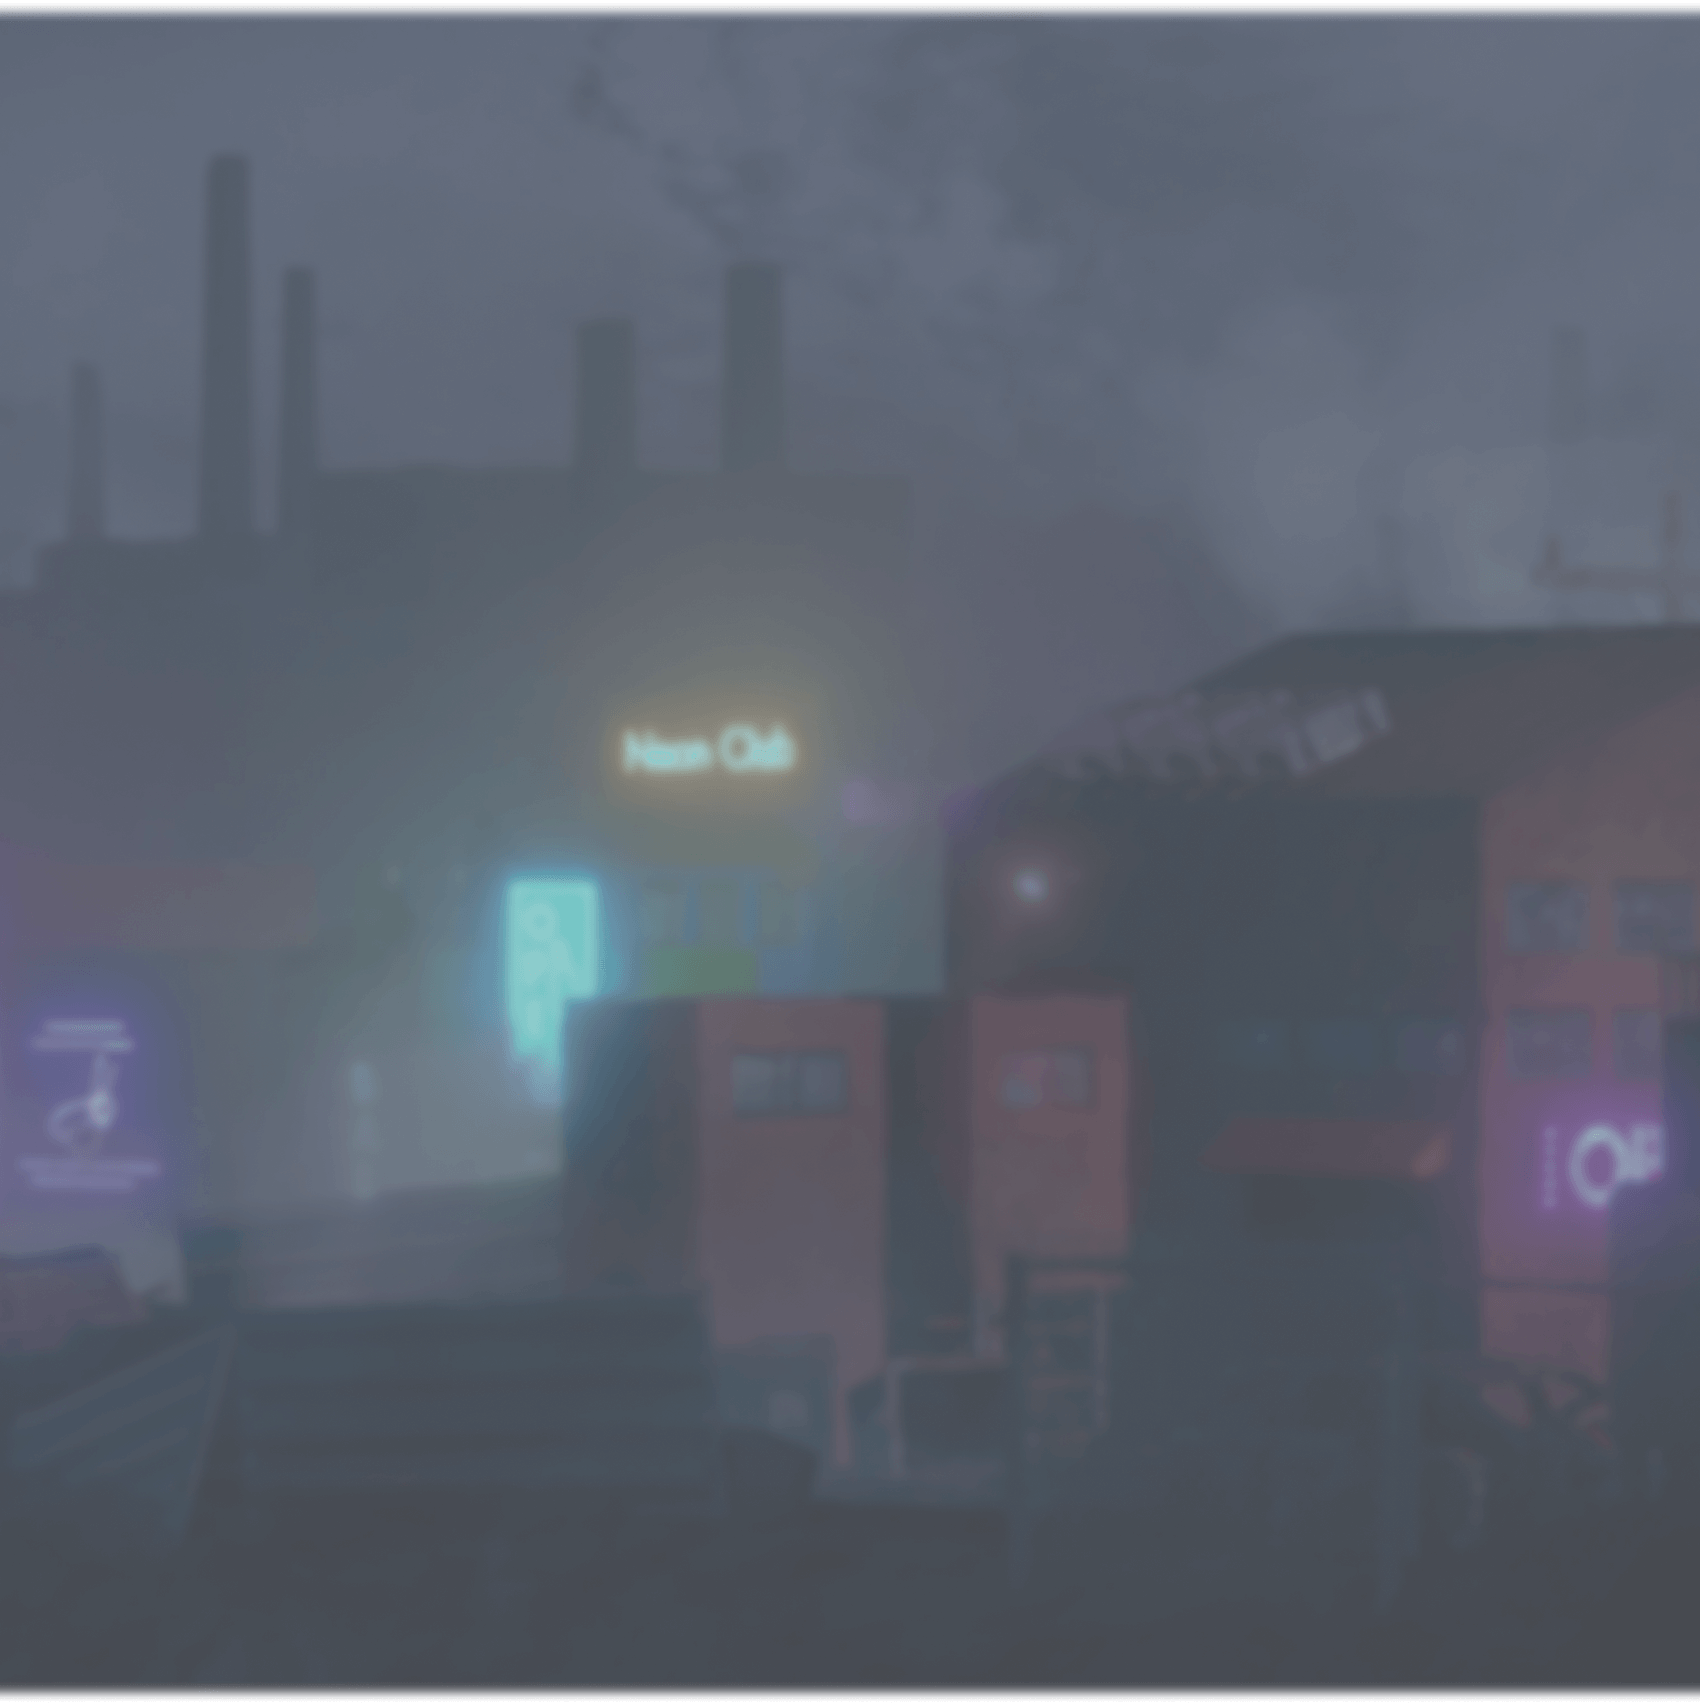
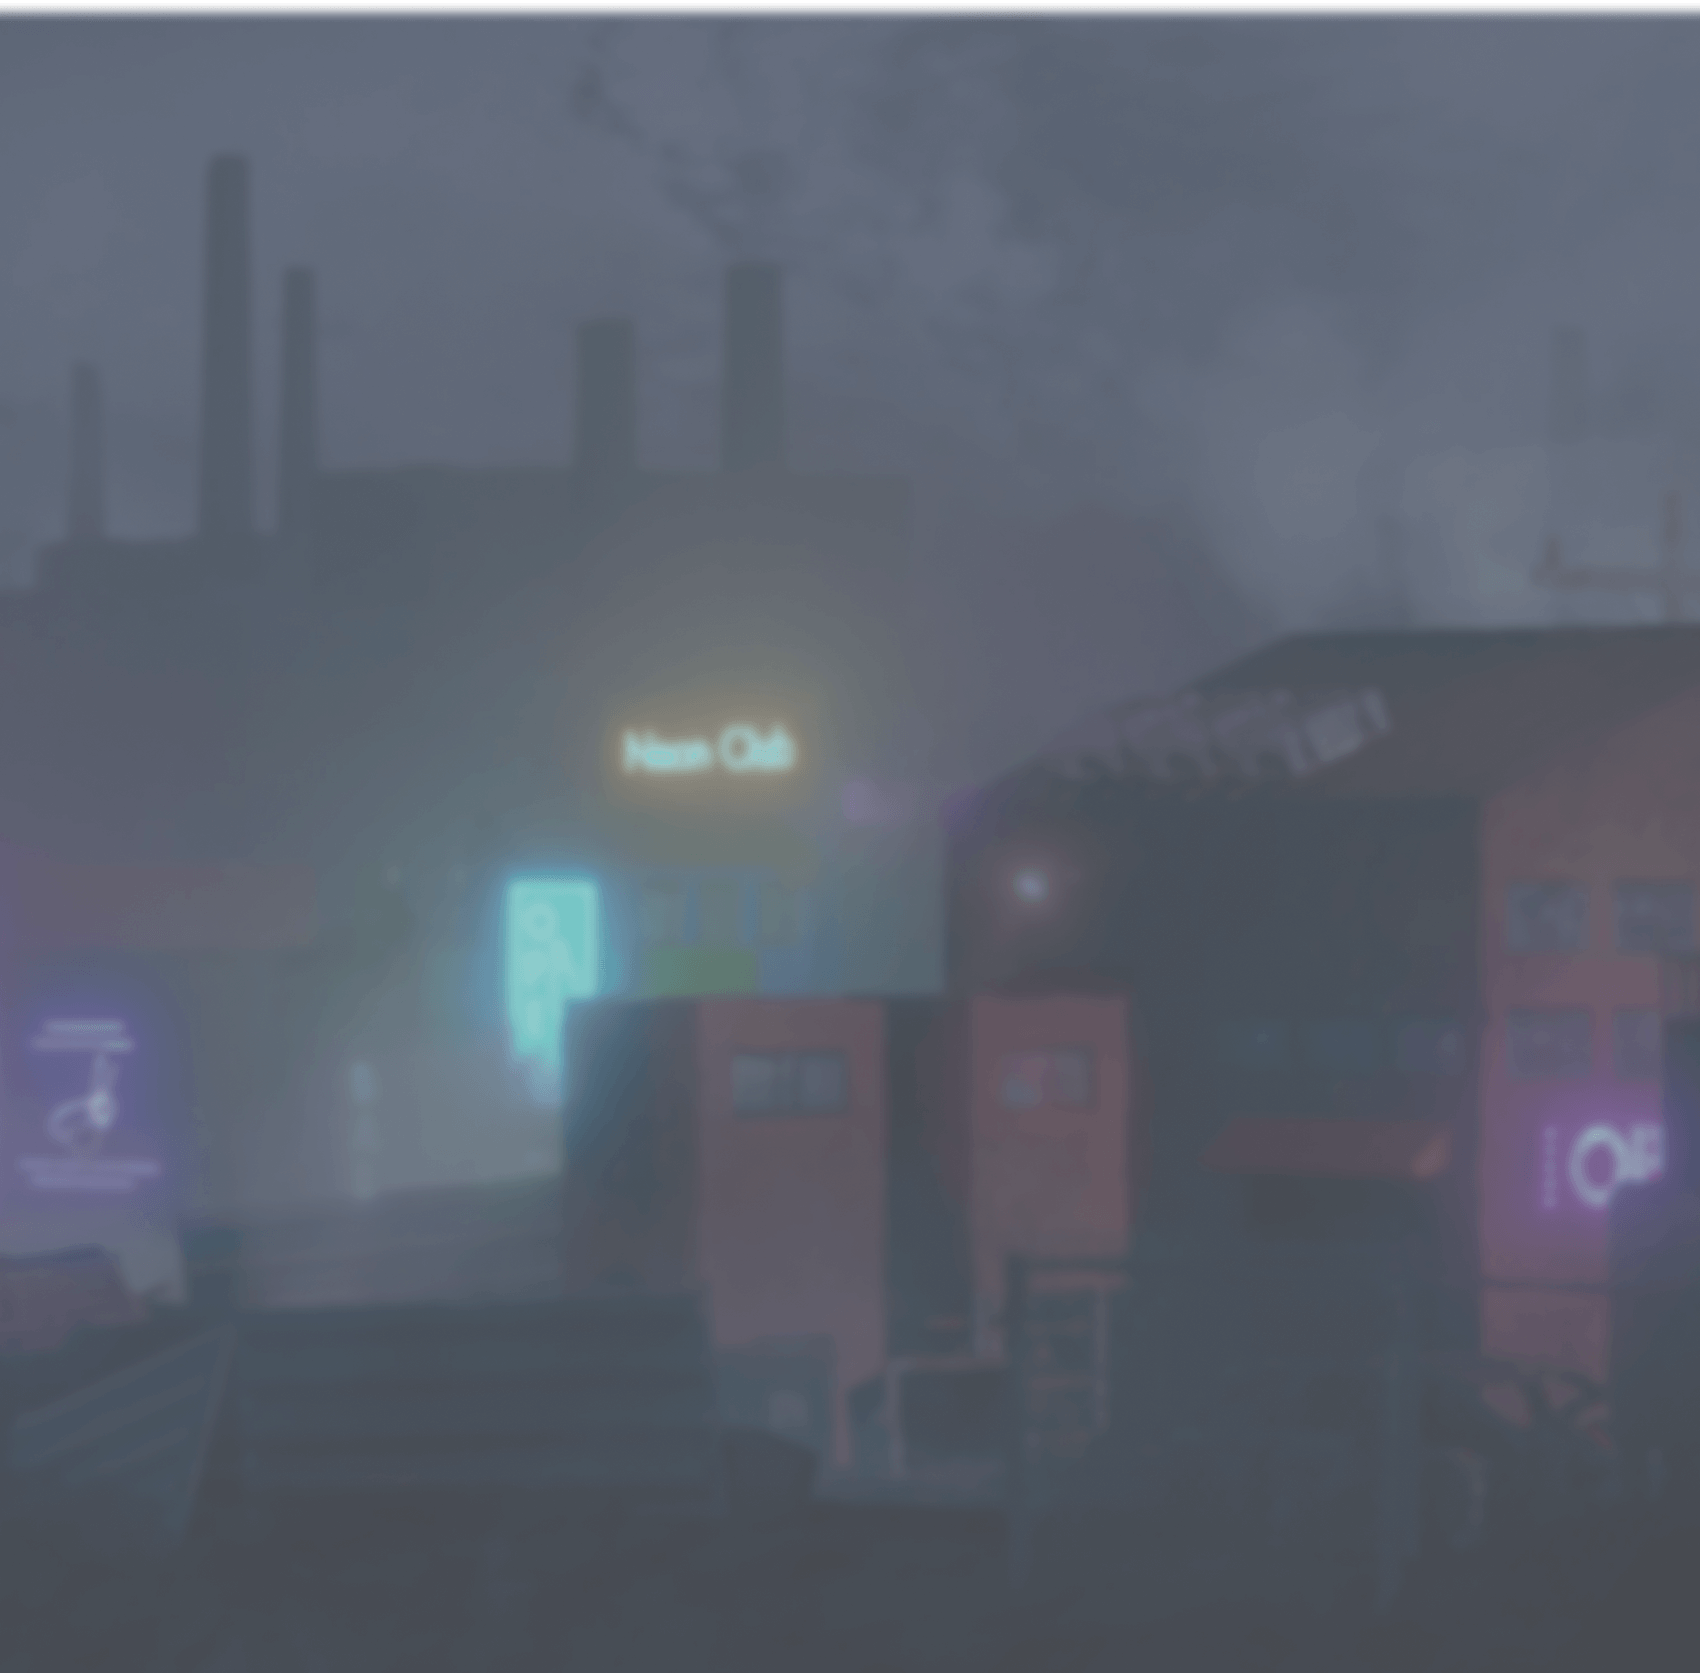
Background fix

diff --git a/styles/home.module.scss b/styles/home.module.scss
@@ -87,7 +87,7 @@
             bottom: 0;
             right: 0;
             left: 0;
-            background: url('/bg/screen_art_object.png') center top no-repeat;
+            background: url('/bg/screen_art_object.png') center bottom no-repeat;
             background-size: 100% auto;
             z-index: 1;
             opacity: 0.7;
